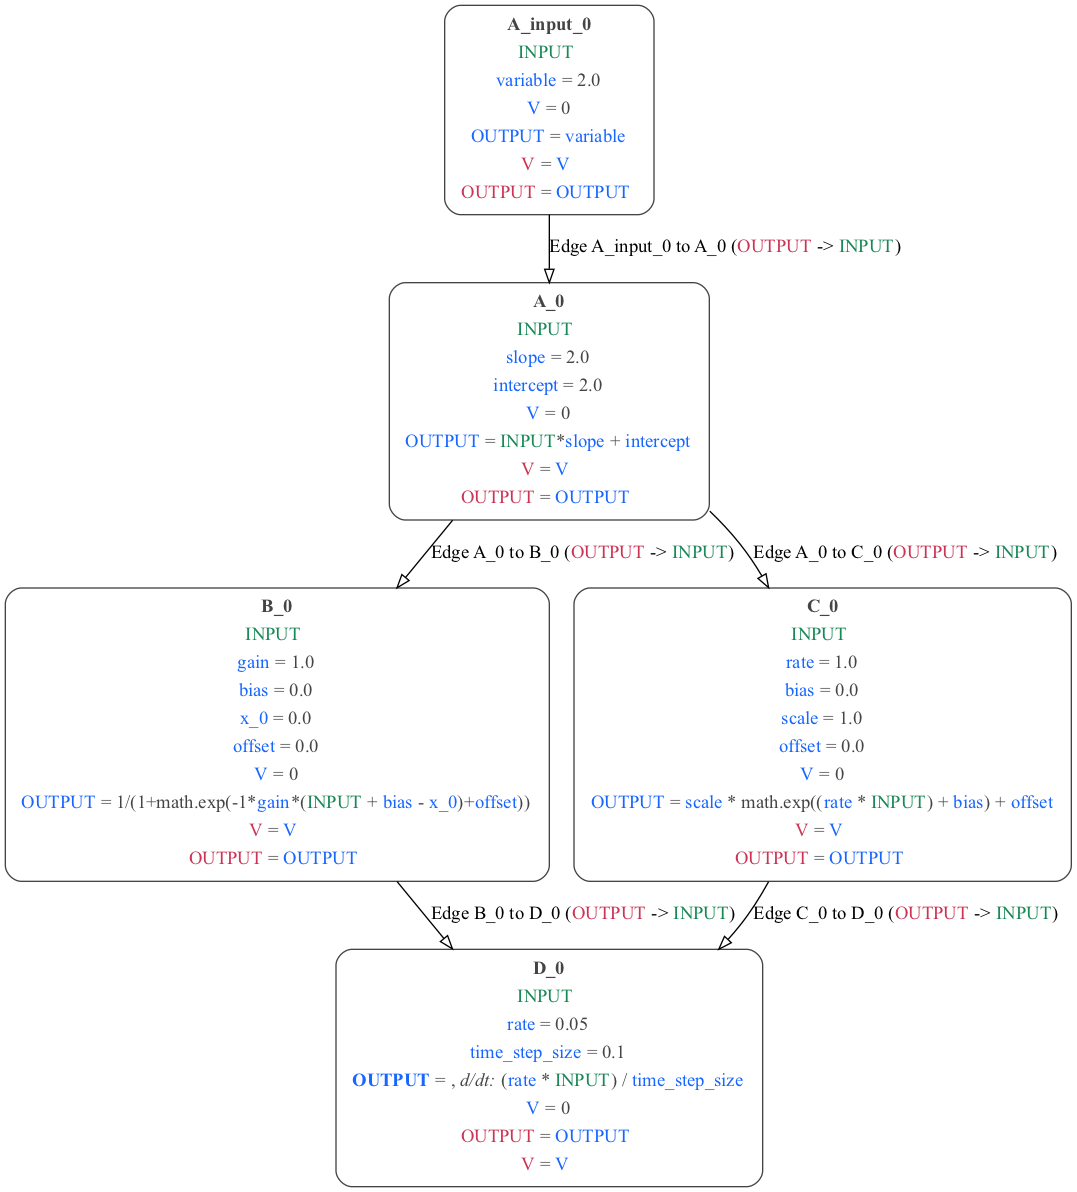
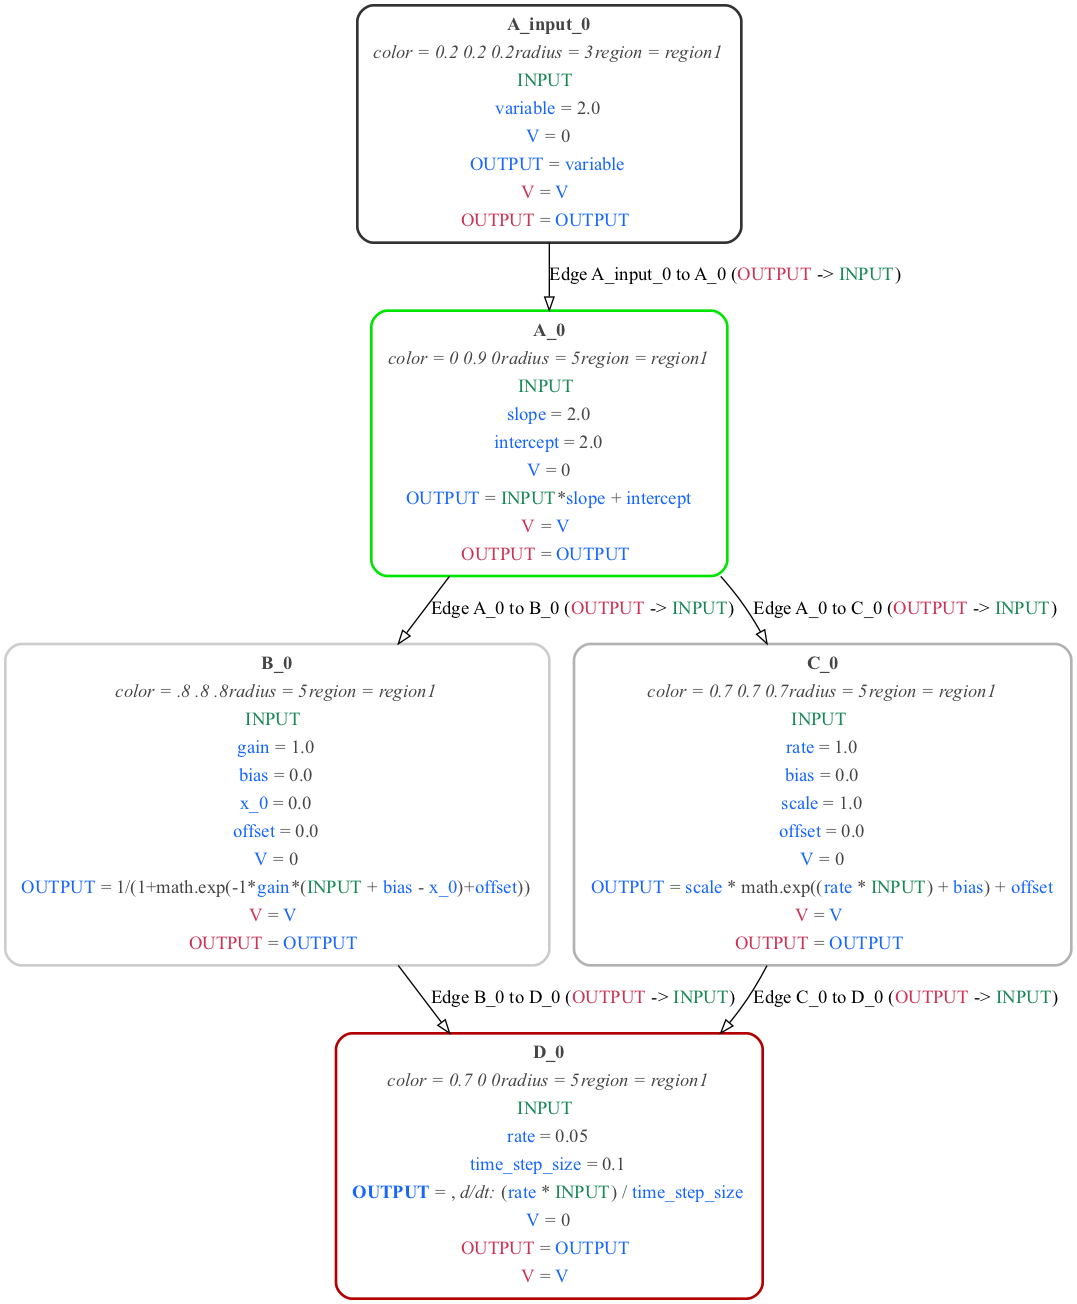
Metadata from nml being passed through to mdf & on to graphs

diff --git a/examples/NeuroML/README.md b/examples/NeuroML/README.md
@@ -22,9 +22,10 @@ The definitions of the components used for A, B, etc. can be found in [PNL.xml](
 
 A version of the network in MDF can be generated from NeuroMLlite definition with: `python ABCD.py -mdf` producing [ABCD.mdf.yaml](ABCD.mdf.yaml) and [ABCD.mdf.json](ABCD.mdf.json).
 
-A graph of the structure of the MDF model can be generated with: `python -m modeci_mdf.interfaces.graphviz.exporter ABCD.mdf.yaml 3`
+A graph of the structure of the MDF model can be generated with: `python -m modeci_mdf.interfaces.graphviz.exporter ABCD.mdf.yaml 1` (left below), or with more detail: `python -m modeci_mdf.interfaces.graphviz.exporter ABCD.mdf.yaml 3` (right below.)
 
-<p align="center"><img src="ABCD.mdf.png" alt="ABCD.mdf.png" height="400"></p>
+<p align="center"><img src="ABCD.1.mdf.png" alt="ABCD.1.mdf.png" height="300"> 
+<img src="ABCD.mdf.png" alt="ABCD.mdf.png" height="400"></p>
 
 
 
